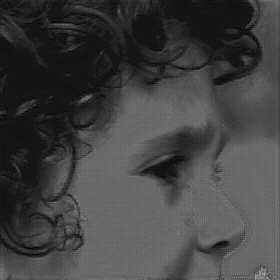
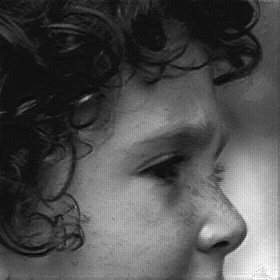
minor modification

diff --git a/ASFSR_final.py b/ASFSR_final.py
@@ -55,7 +55,7 @@ class Tconv_block(nn.Module):
         low = self.low_par1(x)
         low = self.low_par2(low) * inv_mask
         """
-        x = (self.sub_pixel[0](x) / 2**bit_shift) + self.bias
+        x = torch.floor(self.sub_pixel[0](x) / 2**bit_shift) + self.bias
         result = self.sub_pixel[1](x)
 
         return result
@@ -82,9 +82,9 @@ class Conv_block(nn.Module):
                 # nn.init.zeros_(m.bias.data)
 
     def forward(self, x, mask, inv_mask, bit_shift):
-        high = (self.high_par(x) / 2**bit_shift + self.high_bias) * mask
-        low = (self.low_par1(x) / 2**bit_shift + self.low1_bias) * inv_mask
-        low = self.low_par2(low) / 2**bit_shift + self.low2_bias
+        high = (torch.floor(self.high_par(x) / 2**bit_shift) + self.high_bias) * mask
+        low = (torch.floor(self.low_par1(x) / 2**bit_shift) + self.low1_bias) * inv_mask
+        low = torch.floor(self.low_par2(low) / 2**bit_shift) + self.low2_bias
 
         return (low + high)
 
@@ -117,9 +117,10 @@ class Net(nn.Module):
         # variables
         ### for preset
         self.wts_nbit, self.wts_fbit = 8, 4
-        self.biases_nbit, self.biases_ibit = 8, 4
-        self.act_nbit, self.act_fbit = 8, 4
+        self.biases_nbit, self.biases_ibit = 16, 8
+        self.act_nbit, self.act_fbit = 16, 8
         self.scales_nbit, self.scales_ibit = 1, 1
+        self.input_ibit, self.input_fbit = 16, 8
 
         ### for storage
         self.biases_fbit = self.biases_nbit - self.biases_ibit
@@ -219,8 +220,8 @@ class Net(nn.Module):
 
     # function for generating quantized weights
     def prepare_q_weight(self, scheme="uniform", wts_nbit=8, wts_fbit=4):
-        self.wts_nbit = wts_nbit
-        self.wts_fbit = wts_fbit
+        # self.wts_nbit = wts_nbit
+        # self.wts_fbit = wts_fbit
 
         #TConv에서 high, low weight를 없앴으므로 따로 처리해야 함 (작성예정)
         for i in range(len(self.all_layers) - 1):
@@ -229,7 +230,7 @@ class Net(nn.Module):
             low_wts2 = self.all_layers[i].low_par2.weight.data
 
             # test (should be modified)
-            wts_step = 2 ** -wts_fbit
+            wts_step = 2 ** -self.wts_fbit
 
             if(scheme == "none"):
                 high_weight = high_wts
@@ -237,12 +238,12 @@ class Net(nn.Module):
                 low_weight2 = low_wts2
 
             elif(scheme == "uniform"):
-                high_weight, _ = self.uniform_quantize(high_wts, wts_step, wts_nbit)
-                low_weight1, _ = self.uniform_quantize(low_wts1, wts_step, wts_nbit)
-                low_weight2, _ = self.uniform_quantize(low_wts2, wts_step, wts_nbit)
+                high_weight, _ = self.uniform_quantize(high_wts, wts_step, self.wts_nbit)
+                low_weight1, _ = self.uniform_quantize(low_wts1, wts_step, self.wts_nbit)
+                low_weight2, _ = self.uniform_quantize(low_wts2, wts_step, self.wts_nbit)
 
             elif(scheme == "scale_linear"):
-                wts_nlevel = 2 ** wts_nbit
+                wts_nlevel = 2 ** self.wts_nbit
                 output_channels = self.num_filters1     # 레이어에 따라 달리 적용해야 함
                 output, w_bonus_scale_factor = self.scale_linear_quantize(high_wts, output_channels)
 
@@ -265,7 +266,7 @@ class Net(nn.Module):
 
         # last_part
         last_wts = self.all_layers[-1].sub_pixel[0].weight.data
-        wts_step = 2 ** -wts_fbit
+        wts_step = 2 ** -self.wts_fbit
 
         print('step: ', wts_step)
 
@@ -273,7 +274,7 @@ class Net(nn.Module):
             last_weight = last_wts
 
         elif (scheme == "uniform"):
-            last_weight, _ = self.uniform_quantize(last_wts, wts_step, wts_nbit)
+            last_weight, _ = self.uniform_quantize(last_wts, wts_step, self.wts_nbit)
 
         self.origin_wts.append([last_wts, None, None])
         self.quantized_wts.append([last_weight, None, None])
@@ -289,7 +290,7 @@ class Net(nn.Module):
 
 
         # bit shift
-        self.bit_shift, self.output_fbit = self.calculate_bit_shift(8, 4)
+        self.bit_shift, self.output_fbit = self.calculate_bit_shift(self.input_ibit, self.input_fbit)
         print(self.bit_shift, self.output_fbit)
 
         # print(self.all_layers[0].high_par.weight.data)

diff --git a/quantized_predict.py b/quantized_predict.py
@@ -119,7 +119,7 @@ def predict(datasets, model_paths, r=[4], th=[0.04]):
             model.init_bias(biases)
 
             ## weights quantization
-            model.quantize(scheme="uniform", wts_nbit=8, wts_fbit=4)
+            model.quantize(scheme="uniform")
             # for name, param in model.named_parameters():
             #     print("파라미터 이름:", name, "파라미터", param)
 
